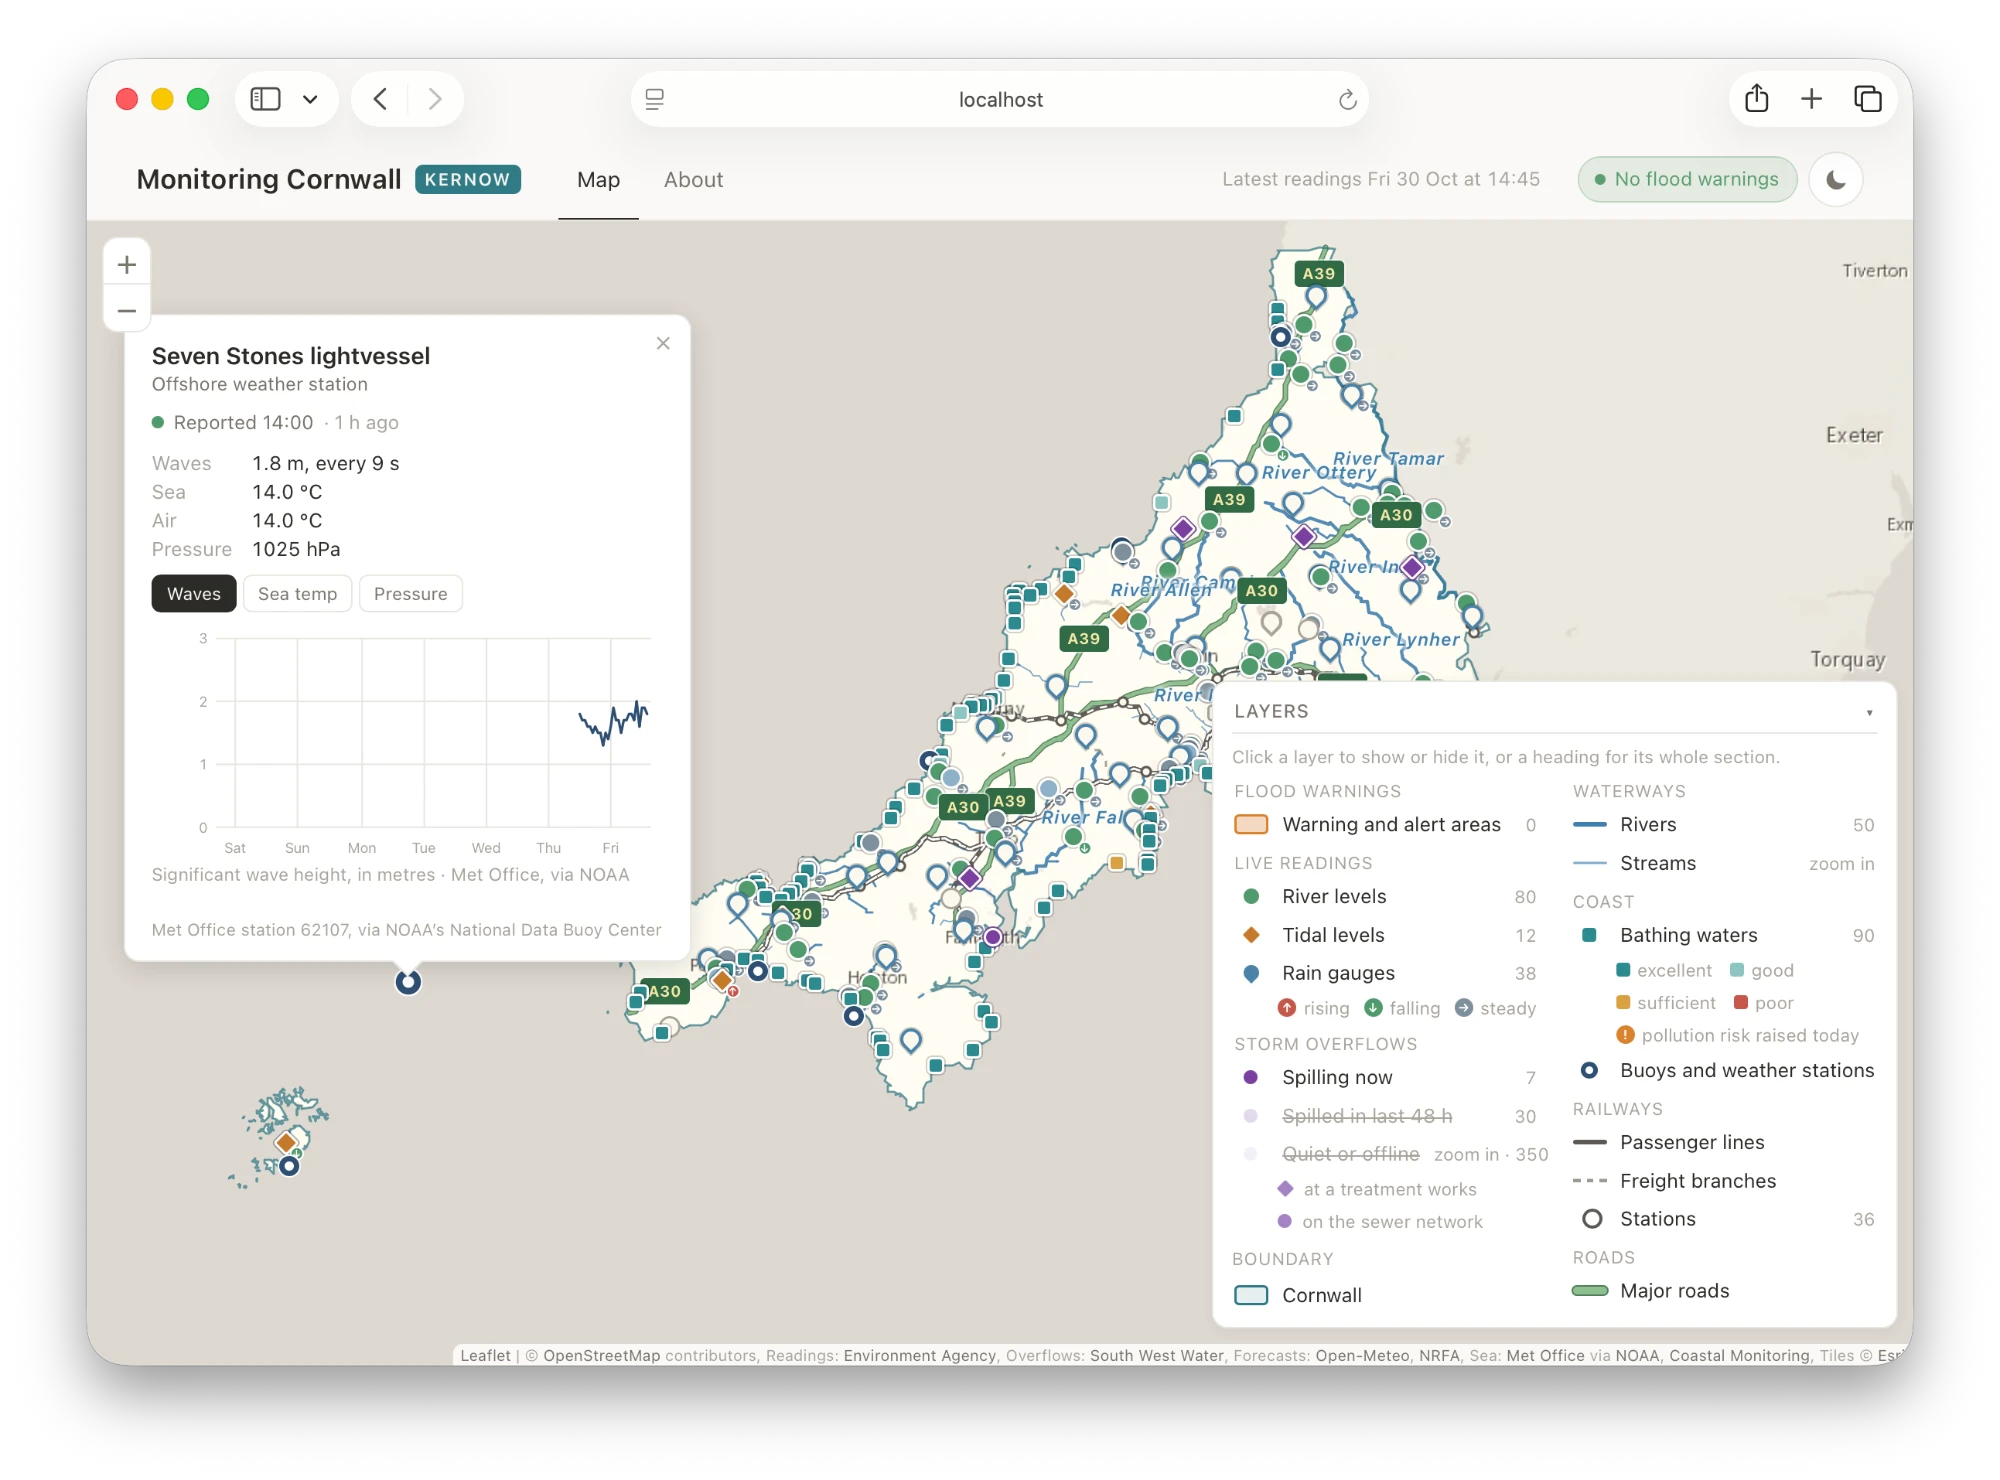
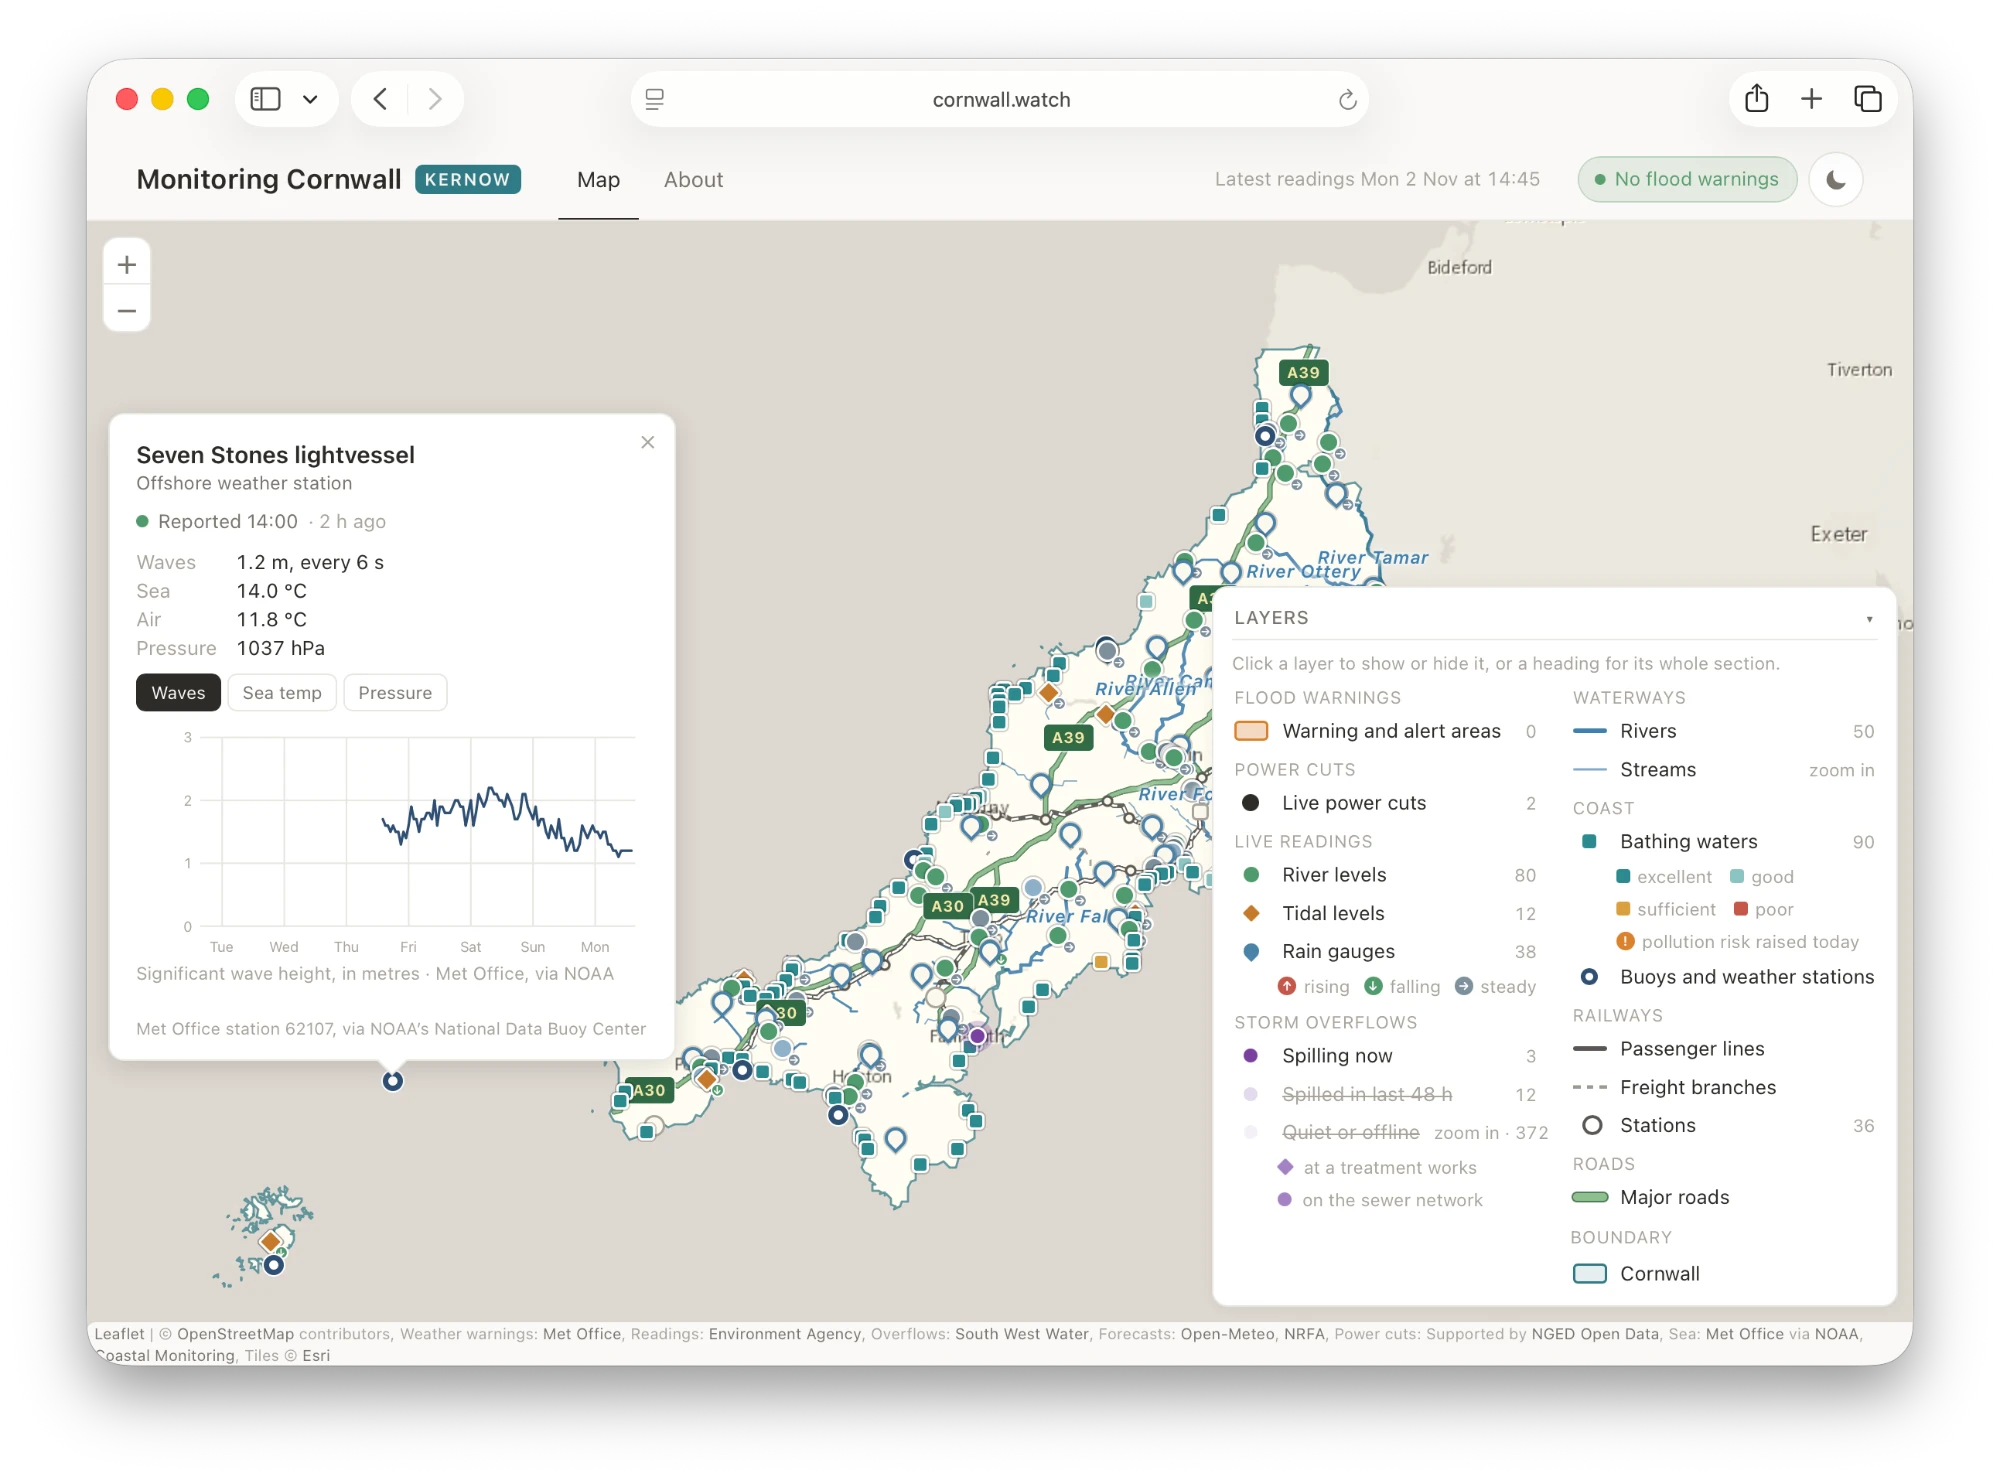
Update the README screenshot

diff --git a/README.md b/README.md
@@ -1,6 +1,6 @@
 # Monitoring Cornwall
 
-![Monitoring Cornwall: the map of Cornwall with its river gauges, rain gauges, storm overflows, bathing waters and buoys, the layers legend open, and the Seven Stones lightvessel's popup charting a week of wave height](docs/screenshot.webp)
+![Monitoring Cornwall: the map of Cornwall with its river gauges, rain gauges, storm overflows, bathing waters, buoys and power cuts, the layers legend open, and the Seven Stones lightvessel's popup charting a week of wave height](docs/screenshot.webp)
 
 Monitoring Cornwall shows which of the county's rivers are high and rising, which storm overflows are spilling, how clean the water is at each beach, and what the rain, the rivers and the sea are doing now and are forecast to do next. It brings the Environment Agency's gauges, flood warnings and bathing waters, the Met Office's weather warnings, National Grid Electricity Distribution's power cuts, South West Water's storm overflow monitors, the Regional Coastal Monitoring Programme's wave buoys and coastal weather stations, the Met Office's observations at sea, and Open-Meteo's forecasts together on one map of Cornwall, drawn from [OpenStreetMap](https://www.openstreetmap.org/). It runs at [cornwall.watch](https://cornwall.watch), a companion to [Floodwatch](https://github.com/aallan/floodwatch), which monitors the River Taw catchment in Devon at [tawriver.watch](https://tawriver.watch).
 
